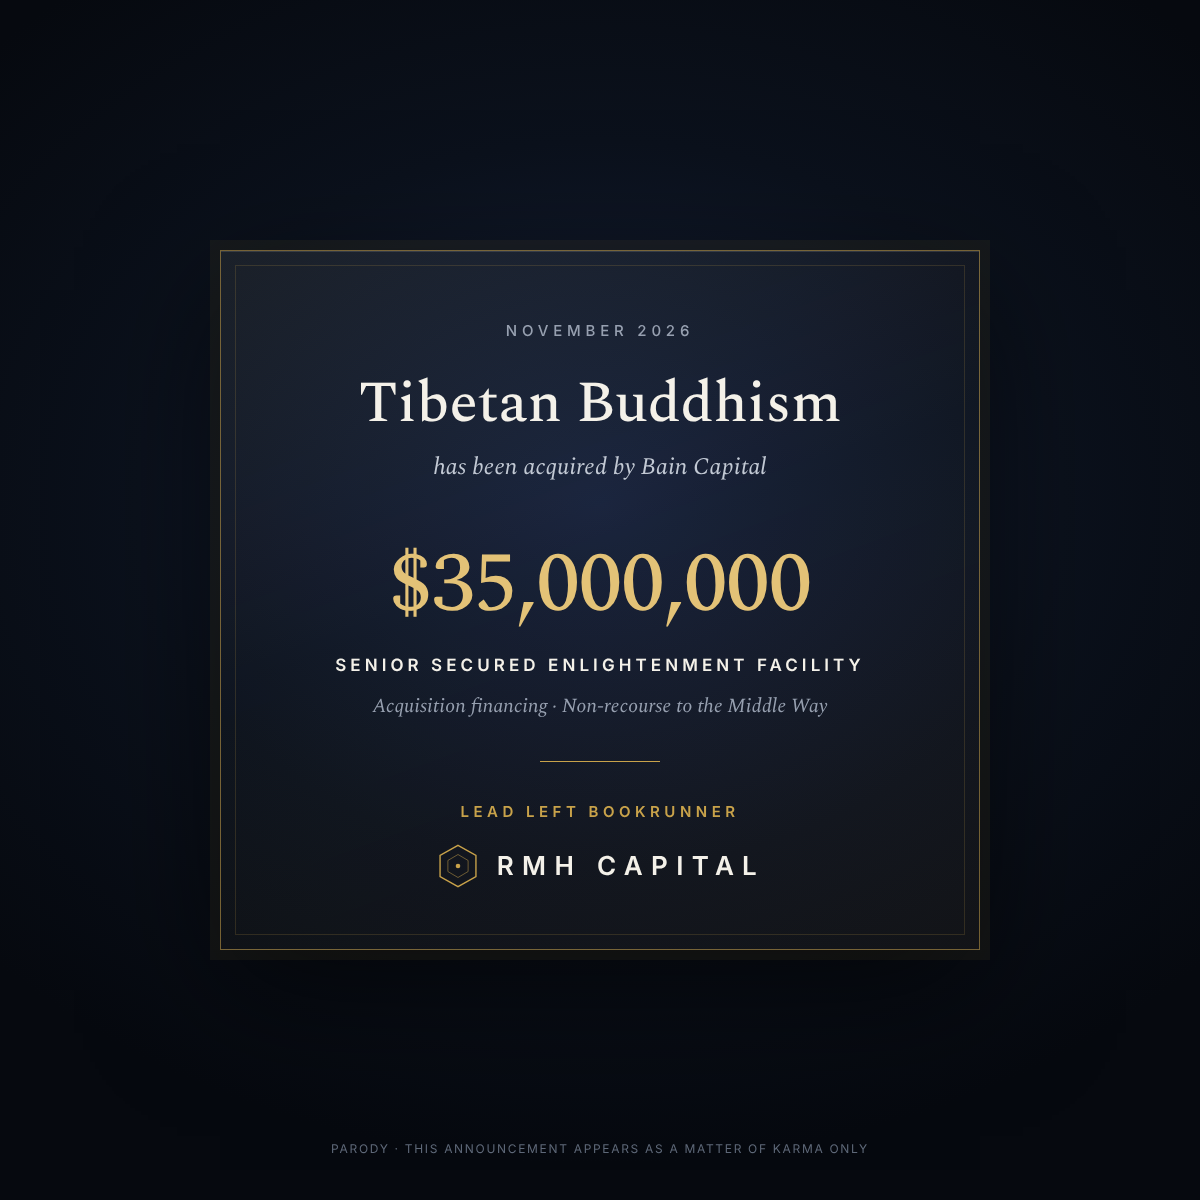
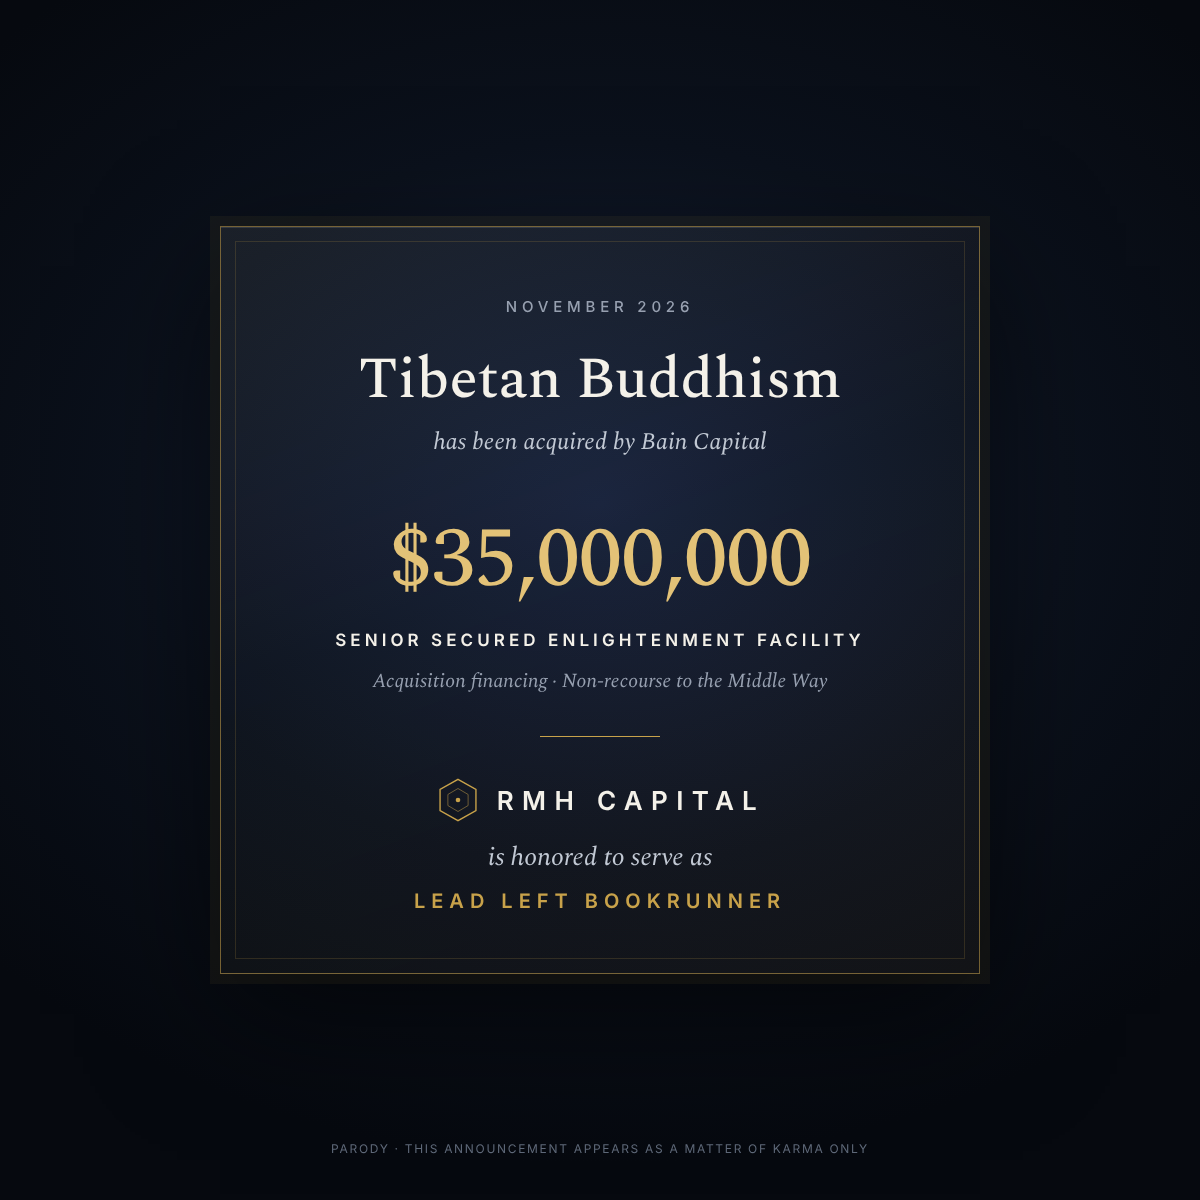
Publish the RMH Capital bookrunner tombstone as a site-wide announcement
The tombstone now states the role the way the post does: 'RMH Capital is
honored to serve as Lead Left Bookrunner'.

Feed announcements are database rows, so a data-only migration inserts it on
deploy: pinned, linking to /rmh-capital, with the tombstone embedded, expiring
in 14 days. It is attributed to the earliest admin, does nothing if there is no
admin, and has a fixed id so re-running it cannot duplicate it. Admins can edit
or deactivate it from the announcements panel as usual.

Claude-Session: https://claude.ai/code/session_016uyGesfLEt3qwB3zwSiFDU

diff --git a/public/images/social/rmh-capital/lead-bookrunner-tibetan-buddhism.md b/public/images/social/rmh-capital/lead-bookrunner-tibetan-buddhism.md
@@ -1,6 +1,6 @@
 # RMH Capital: lead bookrunner post (parody)
 
-Image: `lead-bookrunner-tibetan-buddhism.png` (1200×1200)
+Image: `lead-bookrunner-tibetan-buddhism.png` (1200×1200). The tombstone reads "RMH Capital is honored to serve as Lead Left Bookrunner".
 
 ---
 
@@ -15,3 +15,5 @@ Thank you to our clients for their trust, and to the RMH Capital Leveraged Finan
 #RMHCapital #LeveragedFinance #MA #Bookrunner #Dharma
 
 _Parody. Inspired by The Onion. This announcement appears as a matter of karma only._
+
+Also published site-wide as a pinned feed announcement by migration `20261107150000_rmh_capital_bookrunner_announcement` (expires after 14 days).
